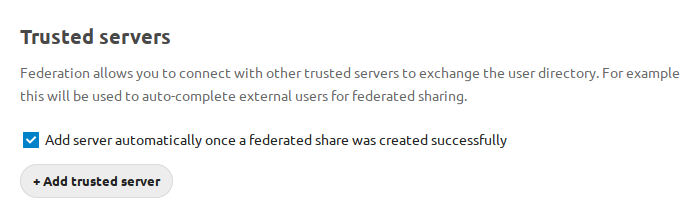
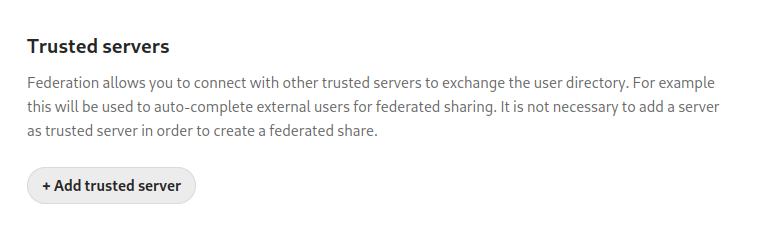
fix(adminmanual): Remove not about automatically trusted servers
This setting was removed in 19+

Ref https://github.com/nextcloud/server/pull/26765

diff --git a/admin_manual/configuration_files/federated_cloud_sharing_configuration.rst b/admin_manual/configuration_files/federated_cloud_sharing_configuration.rst
@@ -24,12 +24,10 @@ is a few steps on the originating server.
    servers** and **Allow users on this server to receive shares from other 
    servers** are enabled. 
 
-3. Now go to the Federation 
-   section. By default, **Add server automatically once a federated share was 
-   created successfully** is checked. The Federation app supports creating a 
+3. Now go to the Federation section. The Federation app supports creating a
    list of trusted Nextcloud servers, which allows the trusted servers to 
    exchange user directories and auto-complete the names of external users when 
-   you create shares. If you do not want this enabled, then un-check it.
+   you create shares.
 
 .. figure:: images/federation-0.png
    
@@ -53,9 +51,7 @@ Configuring trusted Nextcloud servers
 
 You may create a list of trusted Nextcloud servers for Federation sharing. This 
 allows your linked Nextcloud servers to share user directories, and to auto-fill 
-user names in share dialogs. If **Add server automatically once a federated 
-share was created successfully** is enabled on your Admin page, servers will be 
-automatically added to your trusted list when you create new Federation shares.
+user names in share dialogs.
 
 You may also enter Nextcloud server URLs in the **Add Nextcloud Server** field. 
 
